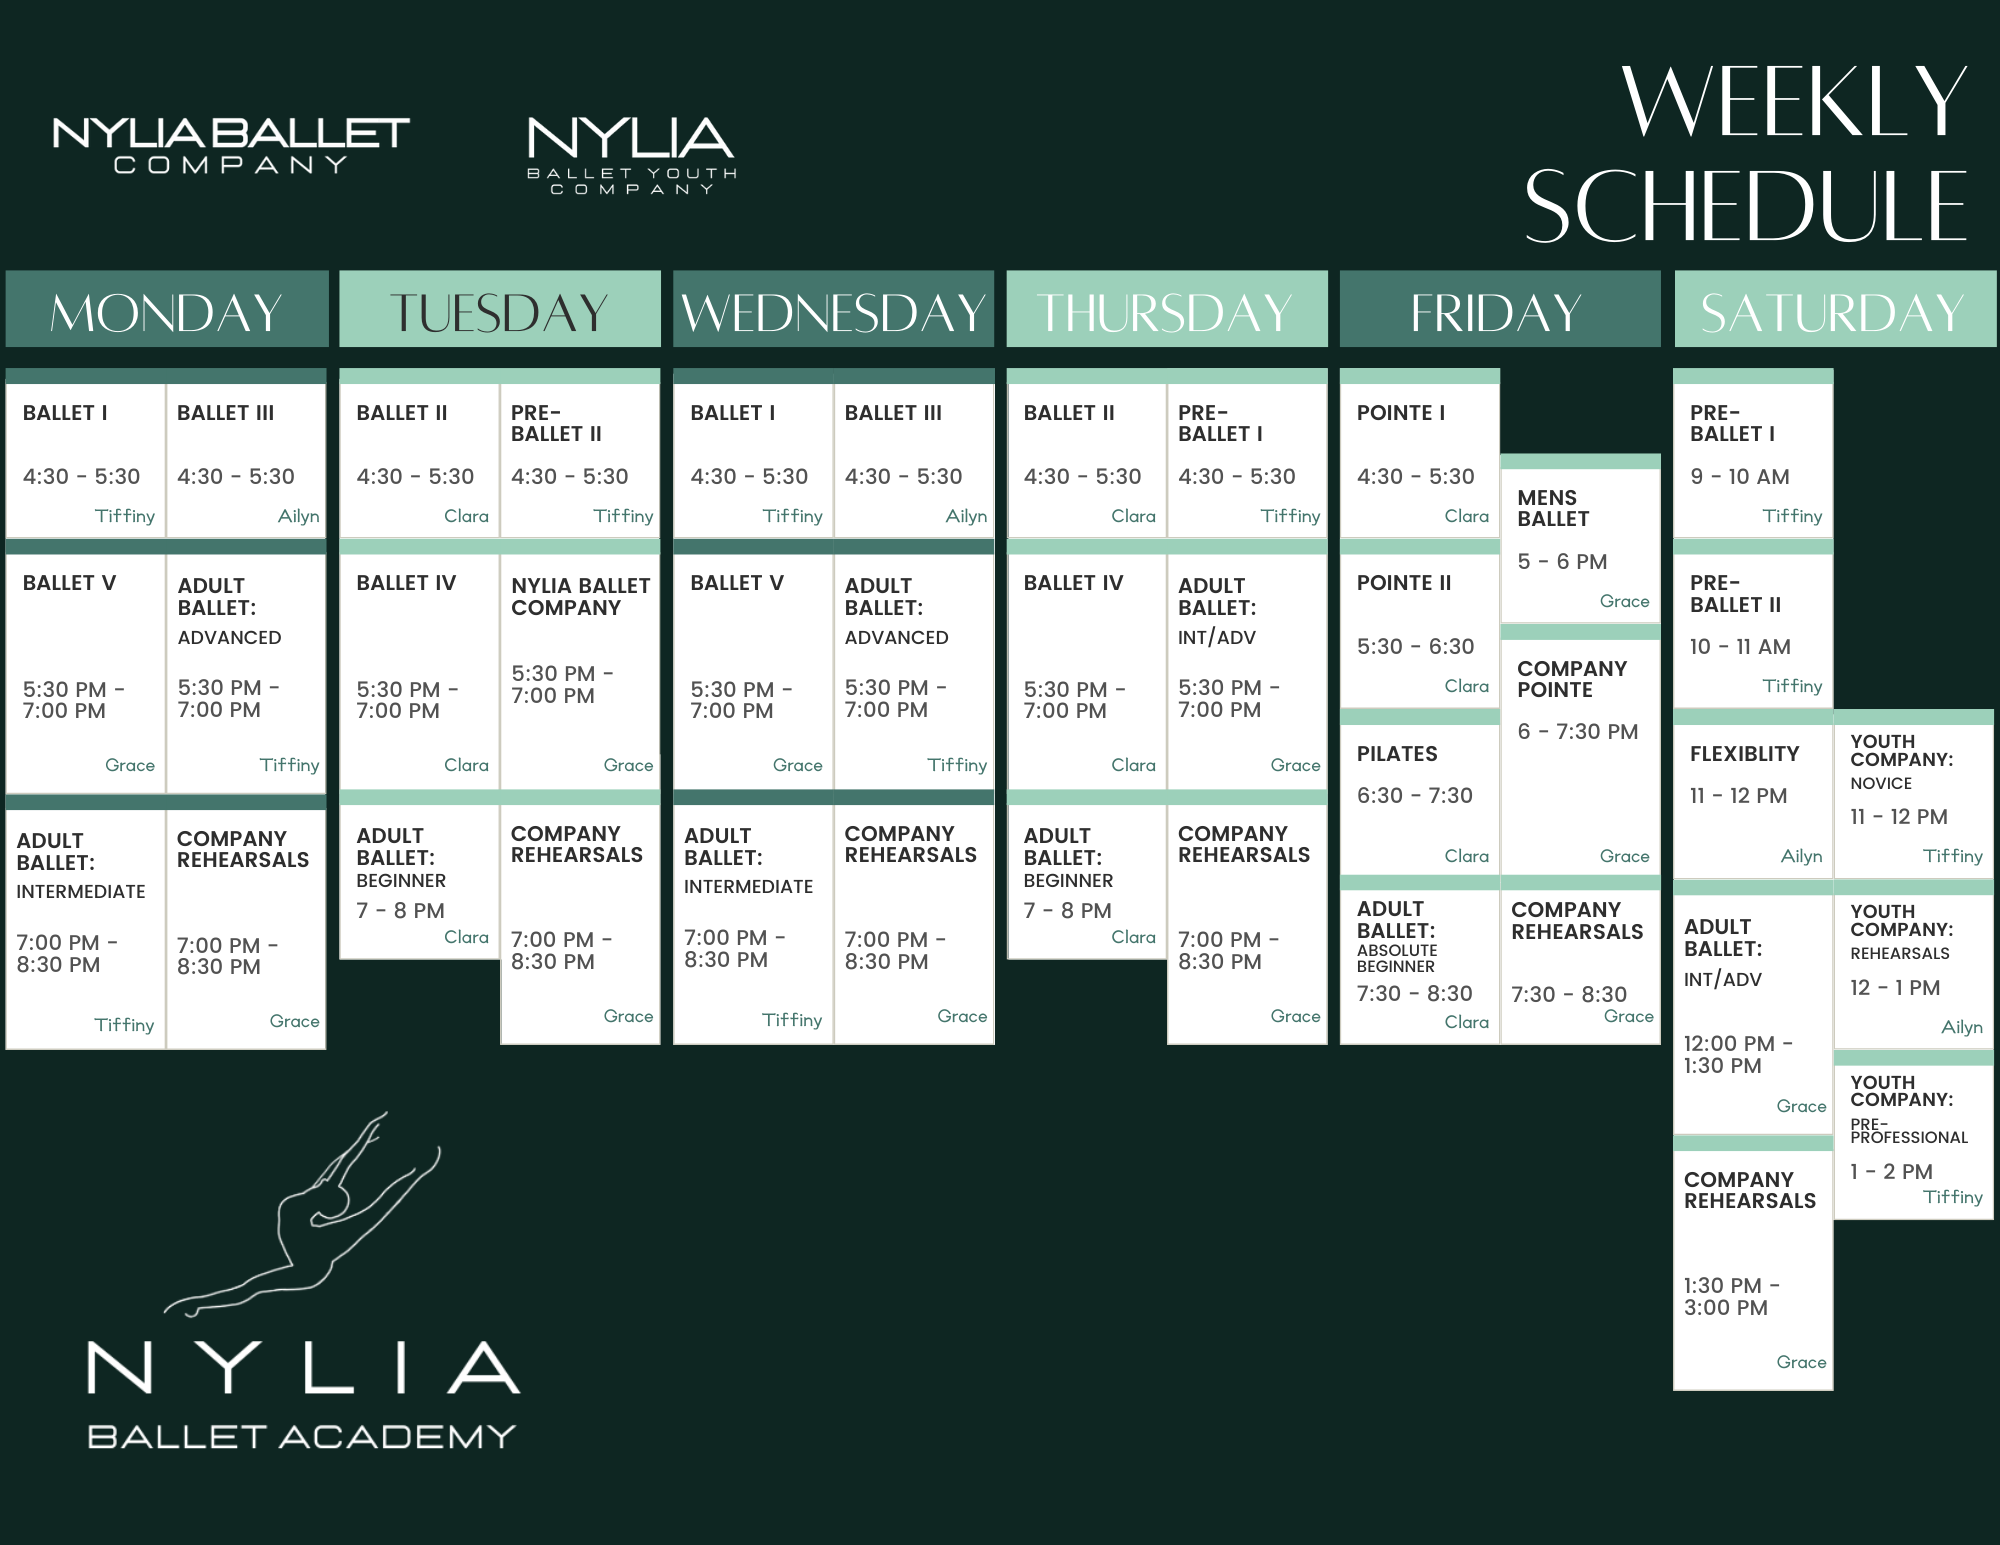
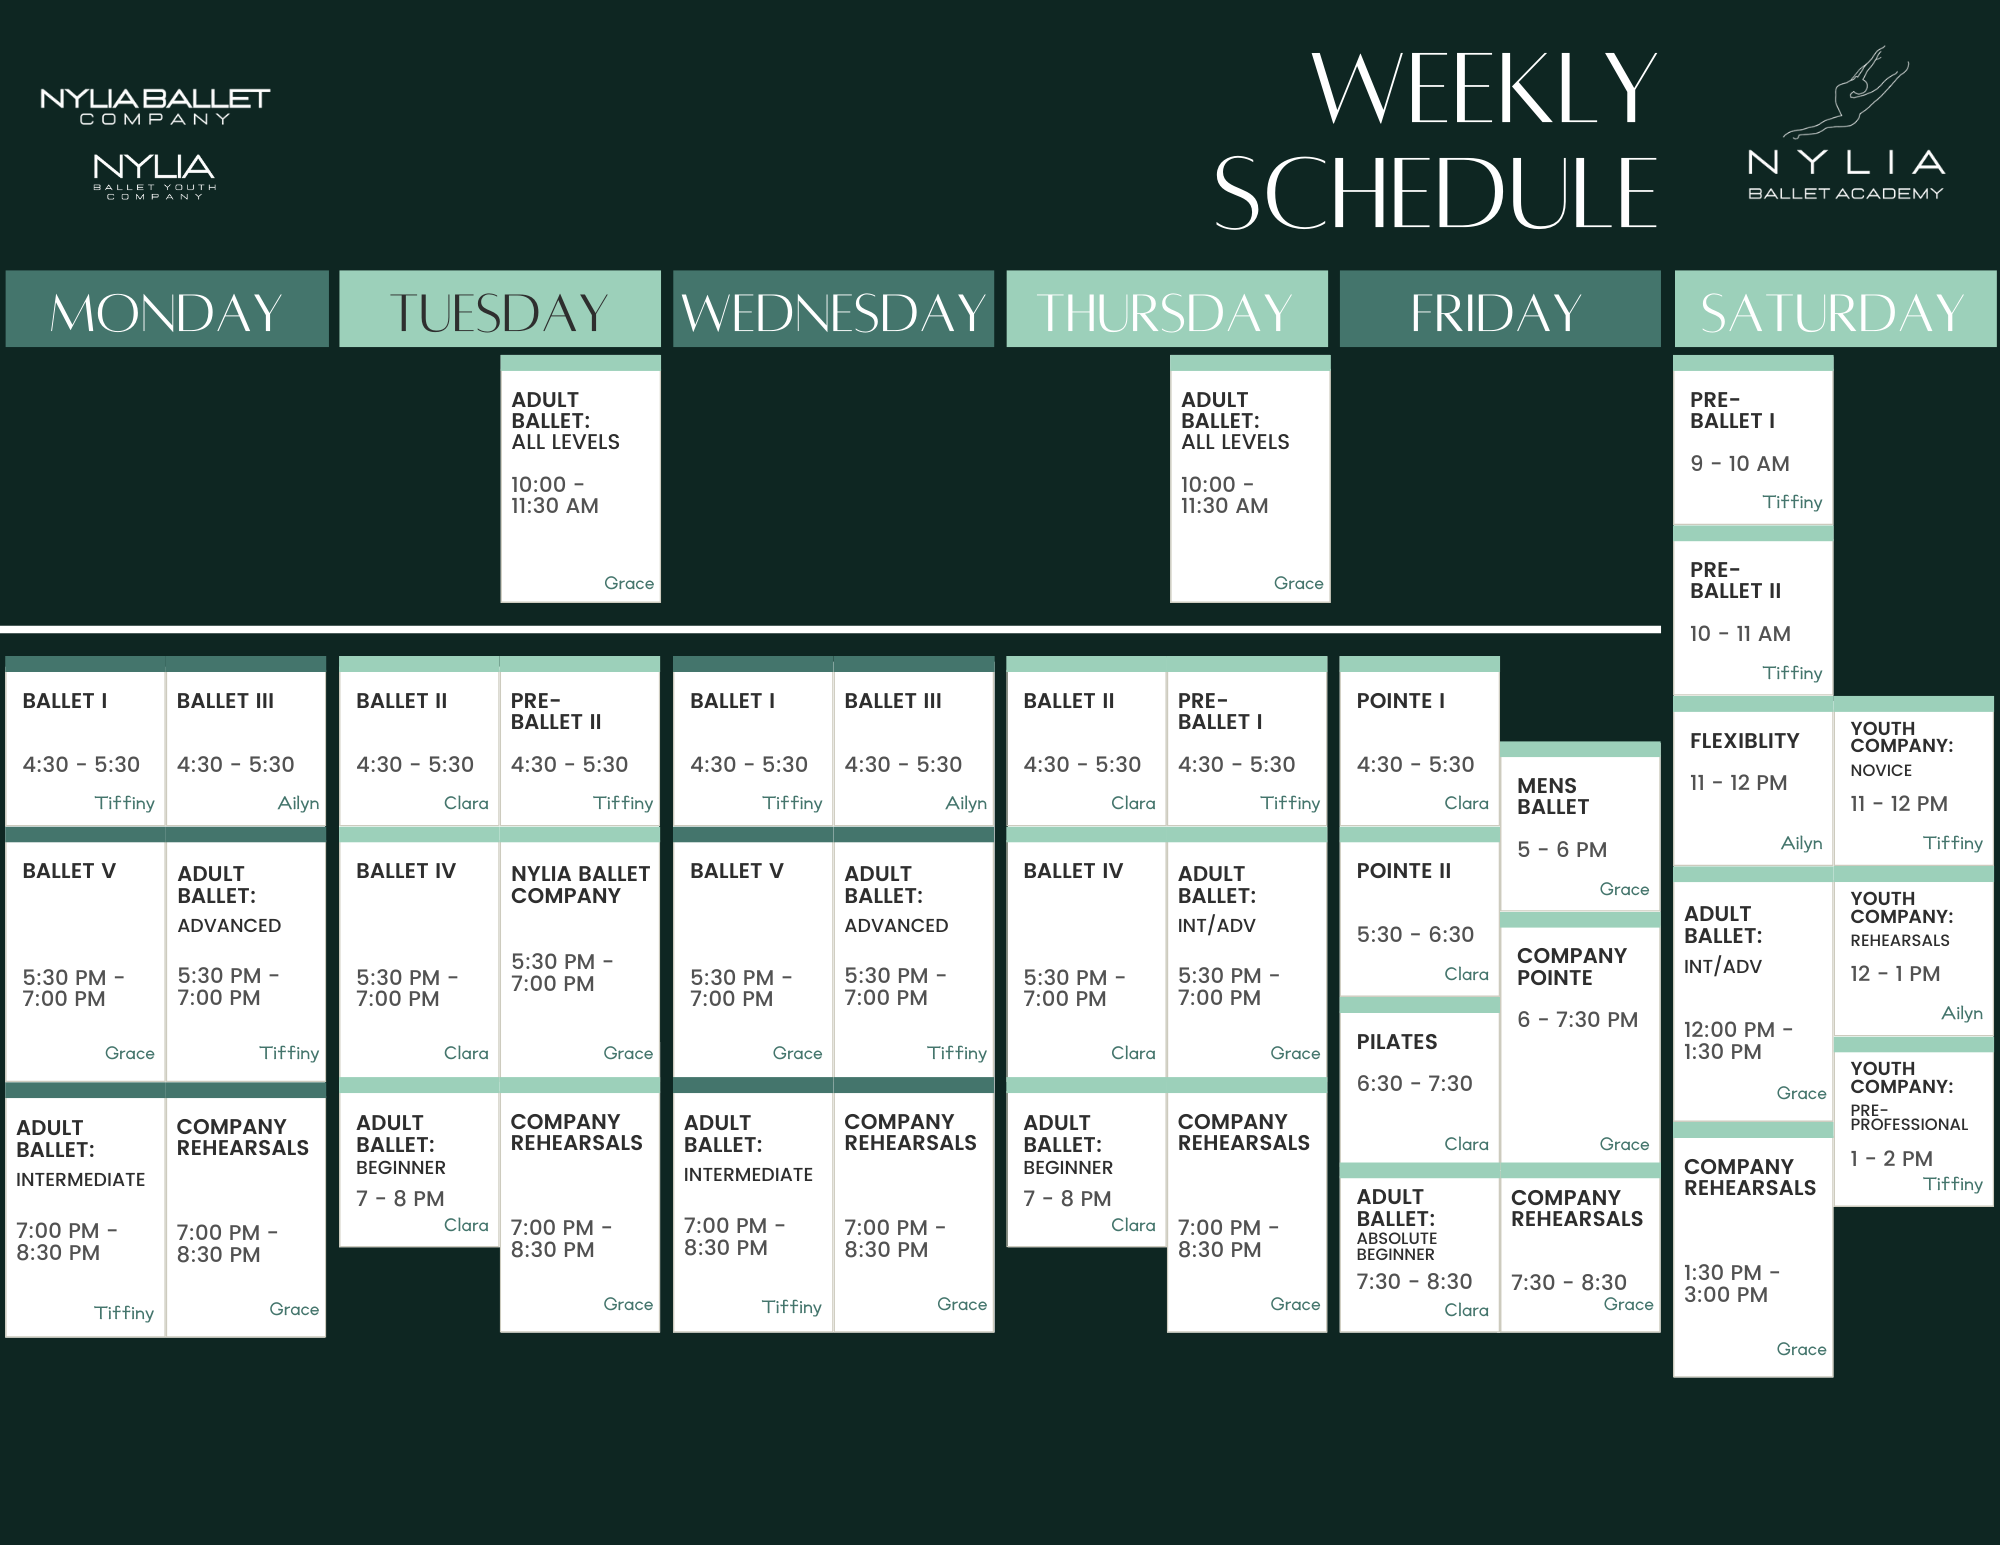
Update weekly schedule

diff --git a/src/components/Classes.js b/src/components/Classes.js
@@ -105,6 +105,9 @@ import advAdultMdWebp from "../assets/classesPage/adultBallet-768.webp";
 import advAdultLgWebp from "../assets/classesPage/adultBallet-1280.webp";
 import advAdultXLWebp from "../assets/classesPage/adultBallet-2000.webp";
 
+import allAdultSm from "../assets/classesPage/AllLevels-300.jpg";
+import allAdultMd from "../assets/classesPage/AllLevels-2000.jpg";
+
 import pilatesSm from "../assets/classesPage/pilates-300.png";
 import pilatesMd from "../assets/classesPage/pilates-768.png";
 import pilatesLg from "../assets/classesPage/pilates-1280.png";
@@ -316,7 +319,21 @@ function Classes() {
       classSched3: "SATURDAY",
       classSched4: "12:00 - 1:30 PM",
       classDesc:
-        "These class is Advanced. Extensive prior ballet experience is required. We will focus on classical ballet technique through a professional class progression. Barre work, center and across the floor exercises are designed to better your technique, as well as performance quality and confidence. With quality and knowledgeable teaching, and an encouraging environment, these classes will be a perfect fit for those who aspire to improve their dancing, and artistry!",
+        "This class is designed for advanced ballet dancers. Extensive prior ballet experience is required. We will focus on classical ballet technique through a professional class progression. Barre work, center and across the floor exercises are designed to better your technique, as well as performance quality and confidence. With quality and knowledgeable teaching, and an encouraging environment, these classes will be a perfect fit for those who aspire to improve their dancing, and artistry!",
+      classRgstr: dropInWlcm,
+    },
+    adultAllLevelsBallet: {
+      classTitle: "ADULT BALLET",
+      classAges: "- All Levels -",
+      classImg: allAdultSm,
+      imgSet: `${allAdultSm} 300w, ${allAdultMd} 768w, ${allAdultMd} 1280w, ${allAdultMd} 2000w`,
+      webpSet: `${allAdultSm} 300w, ${allAdultMd} 768w, ${allAdultMd} 1280w, ${allAdultMd} 2000w`,
+      classSched1: "TUESDAY & THURSDAY",
+      classSched2: "10:00 - 11:30 AM",
+      classSched3: "",
+      classSched4: "",
+      classDesc:
+        "These class is for all dancers, regardless of any past experience! Our instructor caters to a broad spectrum of students. Whether you become a dedicated student who graduates to pointe work, or you’re content to fly under the radar, each level has it’s own benefits and challenges. No matter what level you’re in, remember, the ultimate goal of adult ballet class is to have fun!",
       classRgstr: dropInWlcm,
     },
     flexibility: {
@@ -467,6 +484,13 @@ function Classes() {
                 onClick={() => setClassInfo("adultAdvBallet")}
               >
                 Adult Ballet - Adv
+              </Dropdown.Item>
+              <Dropdown.Item
+                as="button"
+                onClick={() => setClassInfo("adultAllLevelsBallet")}
+              >
+                {" "}
+                Adult Ballet - All Levels{" "}
               </Dropdown.Item>
               <Dropdown.Item
                 as="button"
@@ -636,6 +660,14 @@ function Classes() {
                   onClick={() => setClassInfo("adultAdvBallet")}
                 >
                   Advanced
+                </Dropdown.Item>
+                <Dropdown.Item
+                  eventKey="3"
+                  as="button"
+                  onClick={() => setClassInfo("adultAllLevelsBallet")}
+                >
+                  {" "}
+                  All Levels{" "}
                 </Dropdown.Item>
               </DropdownButton>
               <Button as="button" onClick={() => setClassInfo("pilates")}>
